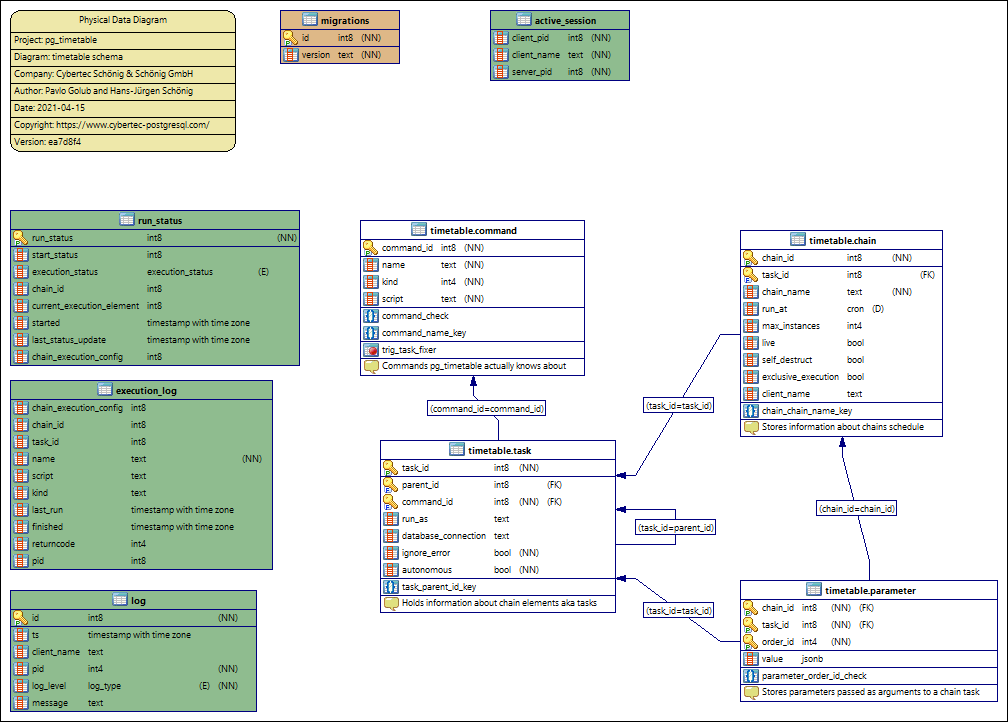
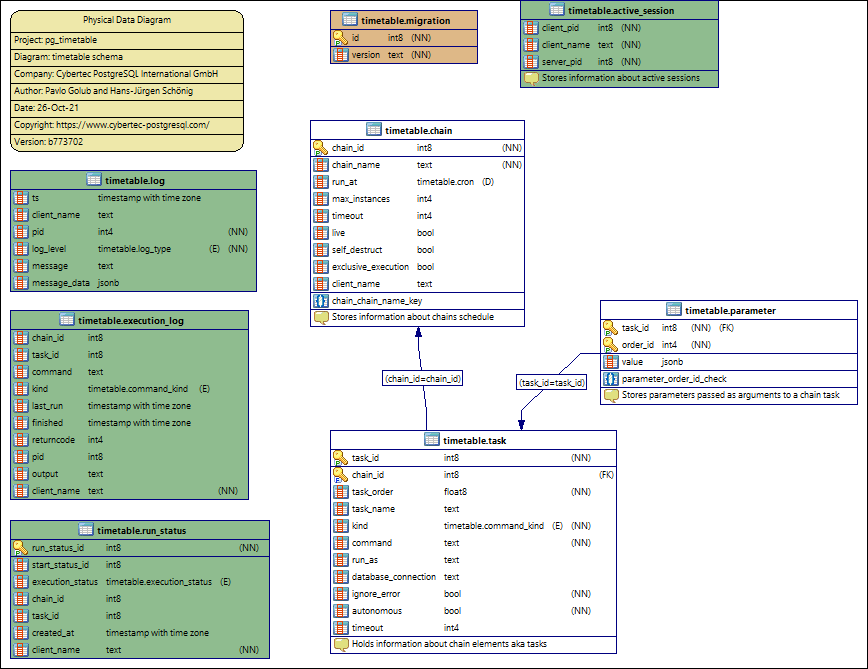
update manual

Changed region(s): [[0.0, 0.0, 1.0, 1.0], [0.5599, 0.2093, 0.6221, 0.2691], [0.8088, 0.6876, 0.9021, 0.7175]]

diff --git a/docs/components.rst b/docs/components.rst
@@ -47,8 +47,10 @@ The next building block is a **task**, which simply represents a step in a list 
 Table timetable.task
 ~~~~~~~~~~~~~~~~~~~~~~~~~~~~~~~~~~~~
 
-    ``parent_id bigint``
-        The ID of the previous task.  Set this to ``NULL`` if it is the first command (head) of the chain.
+    ``chain_id bigint``
+        Link to the chain, if ``NULL`` task considered to be disabled
+    ``task_order DOUBLE PRECISION``
+        Indicates the order of task within a chain.
     ``kind timetable.command_kind``
         The type of the command. Can be *SQL* (default), *PROGRAM* or *BUILTIN*.
     ``command text``
@@ -61,6 +63,9 @@ Table timetable.task
         Specify if the next task should proceed after encountering an error (default: ``false``).
     ``autonomous boolean``
         Specify if the task should be executed out of the chain transaction. Useful for ``VACUUM``, ``CREATE DATABASE``, ``CALL`` etc.
+    ``timeout integer``
+        Abort any task within a chain that takes more than the specified number of milliseconds.
+
 
 
 .. warning:: If the **task** has been configured with ``ignore_error`` set to ``true`` (the default value is ``false``), the worker process will report a success on execution *even if the task within the chain fails*.
@@ -71,8 +76,6 @@ In most cases, they have to be brought to live by passing input parameters to th
 Table timetable.parameter
 ~~~~~~~~~~~~~~~~~~~~~~~~~~~~~~~~~~~~~~~~~
 
-    ``chain_id bigint``
-        The ID of the chain.
     ``task_id bigint``
         The ID of the task.
     ``order_id integer``
@@ -166,14 +169,14 @@ Once tasks have been arranged, they have to be scheduled as a **chain**. For thi
 Table timetable.chain
 ~~~~~~~~~~~~~~~~~~~~~~~~~~~~~~~~~~~~~~~~~
 
-    ``task_id bigint``
-        The id of the first task (head).
     ``chain_name text``
         The unique name of the chain.
     ``run_at timetable.cron``
         Standard *cron*-style value at Postgres server time zone or ``@after``, ``@every``, ``@reboot`` clause.
     ``max_instances integer``
         The amount of instances that this chain may have running at the same time.
+    ``timeout integer``
+        Abort any chain that takes more than the specified number of milliseconds.
     ``live boolean``
         Control if the chain may be executed once it reaches its schedule.
     ``self_destruct boolean``

diff --git a/docs/README.rst b/docs/README.rst
@@ -17,6 +17,7 @@ Main features
 - Full support for database driven logging
 - Cron-style scheduling at the PostgreSQL server time zone
 - Optional concurrency protection
+- Task and chain can have execution timeout settings
 
 Quick Start
 ------------
@@ -93,14 +94,14 @@ Command line options
 
 Contributing
 ------------
-
 If you want to contribute to **pg_timetable** and help make it better, feel free to open an 
 `issue <https://github.com/cybertec-postgresql/pg_timetable/issues>`_ or even consider submitting a 
-`pull request <https://github.com/cybertec-postgresql/pg_timetable/pulls>`_.
+`pull request <https://github.com/cybertec-postgresql/pg_timetable/pulls>`_. You also can give a 
+`star <https://github.com/cybertec-postgresql/pg_timetable/stargazers>`_ to **pg_timetable** project, 
+and to tell the world about it.
 
 Support
 ------------
-
 For professional support, please contact `Cybertec <https://www.cybertec-postgresql.com/>`_.
 
 

diff --git a/docs/background.rst b/docs/background.rst
@@ -18,9 +18,11 @@ Cybertec also provides commercial 9-to-5 and 24/7 support for pg_timetable.
 
 * `Exclusive jobs explained <https://www.cybertec-postgresql.com/en/postgresql-exclusive-cron-jobs-using-pg_timetable-scheduler/>`_
 
+* `Asynchronous chain execution <https://www.cybertec-postgresql.com/en/pg_timetable-asynchronous-chain-execution/>`_
 
+* `v4 released <https://www.cybertec-postgresql.com/en/pg_timetable_v4-is-out/>`_
 
-
+* `PostgreSQL schedulers: comparison table <https://www.cybertec-postgresql.com/en/postgresql-schedulers-comparison-table/>`_
 
 Project feedback
 ----------------

diff --git a/docs/installation.rst b/docs/installation.rst
@@ -1,7 +1,7 @@
 Installation
 ================================================
 
-**pg_timetable** is compatible with the latest supported `PostgreSQL versions <https://www.postgresql.org/support/versioning/>`_: 11, 12, 13 (stable); 14 (dev).
+**pg_timetable** is compatible with the latest supported `PostgreSQL versions <https://www.postgresql.org/support/versioning/>`_: 11, 12, 13, 14 (stable); 15 (dev).
 
 .. note::
 

diff --git a/docs/basic_jobs.rst b/docs/basic_jobs.rst
@@ -48,6 +48,9 @@ For such a group of chains we've introduced a special function ``timetable.add_j
     :param job_ignore_errors: Ignore error during execution. Default: ``TRUE``.
     :type job_ignore_errors: boolean
 
+    :param job_exclusive: Execute the chain in the exclusive mode. Default: ``FALSE``.
+    :type job_exclusive: boolean
+
     :returns: the ID of the created chain
     :rtype: integer
 
